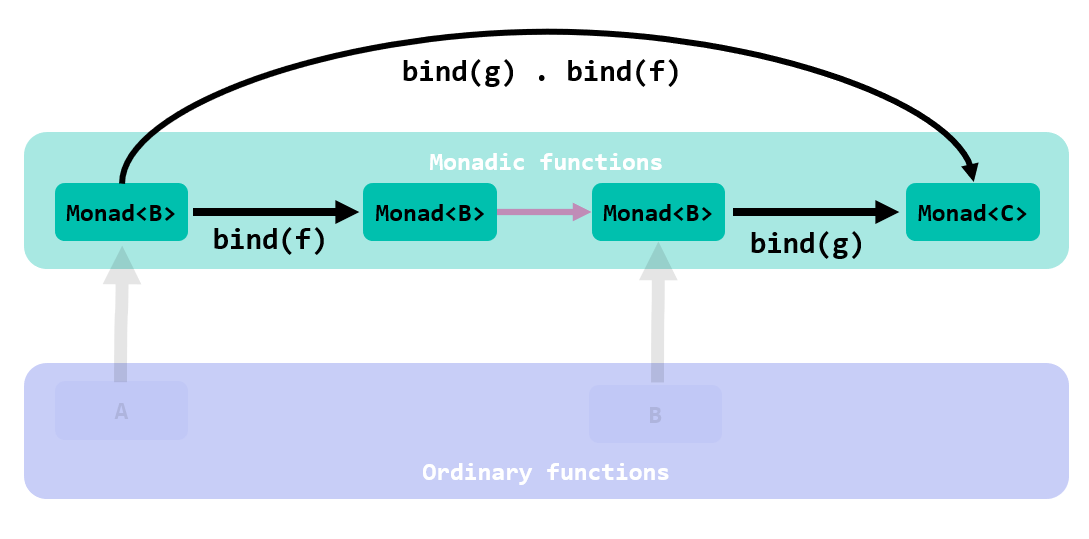
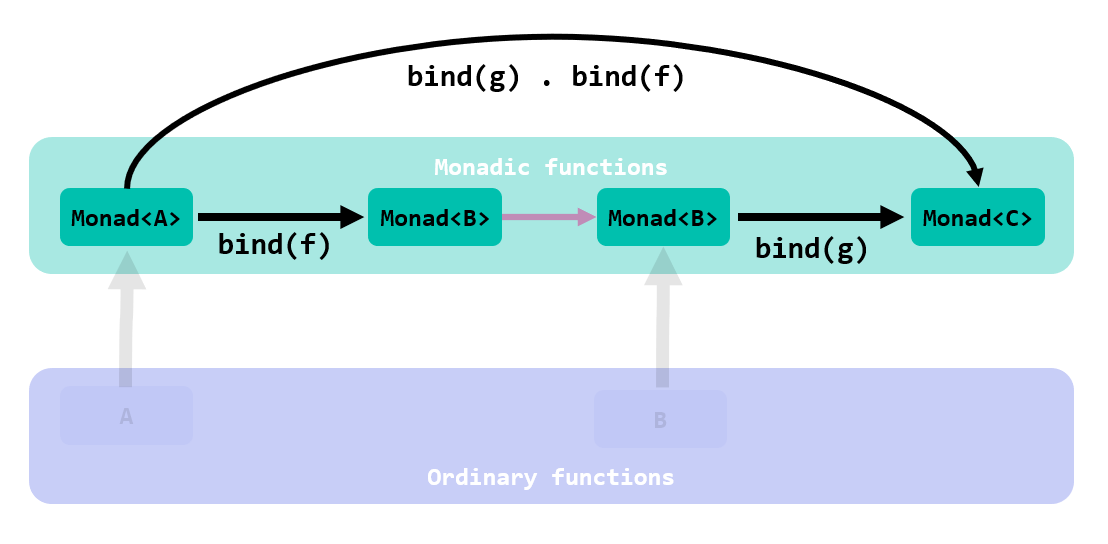
Functor as a map and as a box

diff --git a/_posts/monads-for-the-rest-of-us/2023-08-01-monads-for-the-rest-of-us-8.md b/_posts/monads-for-the-rest-of-us/2023-08-01-monads-for-the-rest-of-us-8.md
@@ -1,0 +1,318 @@
+---
+layout: post
+title: "Monads for the rest of us, in C# - Part 6"
+author: <a href="https://arialdomartini.github.io">Arialdo Martini</a>
+tags:
+- C#
+- Functional Programming
+include_in_index: false
+---
+**In which you realize that Functors are not boxes**
+You just discovered that `Bind` takes crippled functions, with a leg still clinging to the old world, and fix them elevating them so they are fully immersed in the realm of monads:
+
+![a monadic function f from A to Monad<B>](static/img/nond-for-the-rest-of-us/monadic-functions-before-bind.png)
+
+What about even more stubborn functions that have both input and output in the non-monadic world?
+
+![an ordinary function from A to B](static/img/nond-for-the-rest-of-us/functors-before-map.png)
+
+How can we fix them elevating to the monadic world?
+
+We never thought that this was a problem. We always said that pure, ordinary functions are the ideal ones to deal with, the building blocks of Functional Programming.  
+And that's true: by no means the desire to elevate them to the monadic realm implies they are problematic.
+
+The function that takes:
+
+```haskell
+f :: A -> B
+```
+
+and lifts it to:
+
+```haskell
+f :: Monad<A> -> Monad<B>
+```
+
+is called `Map`:
+
+![an ordinary function mapped to be from Monad<A> to Monad<B>](static/img/nond-for-the-rest-of-us/functors-after-map.png)
+
+`Map` is a notion related to Functors.
+
+Let me tell you what a Functor is, using a bit of Category Theory.  
+I promised that this series did not require any knowledge of Category Theory, and I won't go back on my word. I swear that it will be super easy.
+
+# Functors
+I love this image by Bartosz Milewski, from the chapter [Functors][bartosz-functors] of his book [Category Theory for Programmers]:
+
+![a functor as described in Category Theory](static/img/nond-for-the-rest-of-us/bartosz-functor.png)
+
+I slightly modified it adding a missing arrow.  
+Interpret it as follows:
+
+* There are 2 worlds, `C` and `D`. In our case, the world of ordinary functions and values, and the world of monadic functions.
+* In the world of ordinary functions there is a function `f` from the type `a` to the type `b`
+* In the world of the monadic functions, there is another function called `F f`, from the type `F a` to the type `F b`. In our previous diagrams we used the C# style, and we called them `Monad<A>` and `Monad<B>`. This does not alter the essence
+
+
+A Functor is a mapping between these 2 worlds.  
+In [Category Theory for Computing Science][barr-wells], Michael Barr and Charles Wells write:
+
+"A functor `F : C -> D` is a pair of functions [...]" 
+
+* mapping the types of `C` to the types of `D`
+* and the functions of `C` to the functions of `D`
+
+while preserving some rules, that I'm omitting for simplicity.
+
+Let me stress again: a functor is *a pair of functions*. A functor is not a thing: it's two.
+
+Of course, this is the mathematical definition. Projected to the programming language world, you need some way to implement this idea. No surprises that you can find a wide variety of implementations, from  classes implementing a `Functor` interface, like in [language-ext][language-ext]:
+
+```csharp
+[Typeclass("F*")]
+public interface Functor<FA, FB, A, B> : Typeclass
+{
+    /// <summary>
+    /// Projection from one value to another
+    /// </summary>
+    /// <param name="ma">Functor value to map from </param>
+    /// <param name="f">Projection function</param>
+    /// <returns>Mapped functor</returns>
+    [Pure]
+    FB Map(FA ma, Func<A, B> f);
+}
+```
+
+or a type classe called `Functor`, like in Haskell:
+
+```haskell
+class Functor f where
+    fmap        :: (a -> b) -> f a -> f b
+```
+
+(which captures both the mapping of functions, with `fmap` and the mapping of values, with `f`)
+
+or traits, like in [Scala Cats][scala-cats-functor]:
+
+```scala
+trait Functor[F[_]] extends Invariant[F] { self =>
+  def map[A, B](fa: F[A])(f: A => B): F[B]
+
+  override def imap[A, B](fa: F[A])(f: A => B)(g: B => A): F[B] = map(fa)(f)
+  final def fmap[A, B](fa: F[A])(f: A => B): F[B] = map(fa)(f)
+  def widen[A, B >: A](fa: F[A]): F[B] = fa.asInstanceOf[F[B]]
+  def lift[A, B](f: A => B): F[A] => F[B] = map(_)(f)
+  [...]
+}
+```
+
+The implementation is not essential, but it is interesting to notice how it often influences the way functors are described and defined. Here's a collection of examples from real random articles:
+
+* "a functor is simply something that can be mapped over"
+* "a Functor is some kind of box that can hold generic data and map a function"
+* "a functor is a type that can map itself to another version of itself using a mapping function"
+* "A functor is a container of values"
+
+The most popular way to visualize functors is using boxes, as in [Functors, Applicatives, And Monads In Pictures][functors-as-boxes]:
+
+![Functors as boxes](static/img/nond-for-the-rest-of-us/functors-as-boxes.png)
+
+This is all good. But I recommend: don't forget that these are only approximations and visualization stratagems.  
+The box metaphor holds true in many scenarios, but easily falls short in others, leading to situations that can be quite perplexing.
+
+Before implementing functors for our IO, Undetemined and Maybe cases, let's see with some code those 2 different perspectives on Functors.
+
+## Functor as a mapper
+Take a simple function `string -> int`:
+
+```csharp
+Func<string, int> length = s => s.Length;
+```
+
+
+![length function from string to int](static/img/nond-for-the-rest-of-us/functors-length.png)
+
+
+We want to map it work with `IEnumerables`, and make its signature
+
+```haskell
+IEnumerable<string> -> IEnumerable<int>
+```
+
+That is, awe want to elevate it to the world inhabitated by types modeled by the `IEnumerable` monad:
+
+![length function from string to int](static/img/nond-for-the-rest-of-us/functors-functorial-length.png)
+
+Do you see how this type-signature transformation perfectly match the goal of `Map`?
+
+Let's implement it:
+
+```csharp
+internal static class FunctorExtensions
+{
+    internal static Func<IEnumerable<A>, IEnumerable<B>> Map<A, B>(this Func<A, B> f)
+    {
+        IEnumerable<B> ApplyFunctionToAllItems(IEnumerable<A> aa)
+        {
+            foreach (var a in aa)
+            {
+                yield return f(a);
+            }
+        }
+
+        return values => ApplyFunctionToAllItems(values);
+    }        
+}
+
+string s = "foo";
+
+Func<IEnumerable<string>, IEnumerable<int>> functorialLength = length.Map();
+
+
+IEnumerable<string> values = new[] { "foo", "barbaz", "" };
+IEnumerable<int> lengths = functorialLength(values);
+
+Assert.Equal(new[] { 3, 6, 0 }, lengths);
+```
+
+# Functor as a box
+Bear with me: we are going to perform a series of refactoring moves. At the end we will get to an implementation of a Functor seen as a box. The reason why I want to get there via refactoring is to stress that the 2 points of view are alternative, 2 faces of the same coin.
+
+With Rider / ReSharper, move your cursor on `yield` and apply  "*To collection return*":
+
+```csharp
+Func<IEnumerable<A>, IEnumerable<B>> Map<A, B>(this Func<A, B> f)
+{
+    IEnumerable<B> ApplyFunctionToAllItems(IEnumerable<A> aa)
+    {
+        var items = new List<B>();
+        foreach (var a in aa)
+        {
+            items.Add(f(a));
+        }
+
+        return items;
+    }
+
+    return ApplyFunctionToAllItems;
+}
+```
+
+On `foreach`, "*Convert into LINQ-expression*":
+
+```csharp
+Func<IEnumerable<A>, IEnumerable<B>> Map<A, B>(Func<A, B> f)
+{
+    IEnumerable<B> ApplyFunctionToAllItems(IEnumerable<A> aa)
+    {
+        return aa.Select(a => f(a)).ToList();
+    }
+
+    return ApplyFunctionToAllItems;
+}
+```
+
+Feel free to remove the `ToList()` call:
+
+
+```csharp
+Func<IEnumerable<A>, IEnumerable<B>> Map<A, B>(Func<A, B> f)
+{
+    IEnumerable<B> ApplyFunctionToAllItems(IEnumerable<A> aa)
+    {
+        return aa.Select(a => f(a));
+    }
+
+    return ApplyFunctionToAllItems;
+}
+```
+
+
+On `ApplyFunctionToAllItems` apply "*To Expression Body*":
+
+```csharp
+Func<IEnumerable<A>, IEnumerable<B>> Map<A, B>(Func<A, B> f)
+{
+    IEnumerable<B> ApplyFunctionToAllItems(IEnumerable<A> aa) => aa.Select(a => f(a));
+
+    return ApplyFunctionToAllItems;
+}
+```
+
+Again on `ApplyFunctionToAllItems`, apply "*Inline method*":
+
+```csharp
+Func<IEnumerable<A>, IEnumerable<B>> Map<A, B>(Func<A, B> f)
+{
+    return aa => aa.Select(a => f(a));
+}
+```
+
+On `f` "*Replace with method group":
+
+```csharp
+Func<IEnumerable<A>, IEnumerable<B>> Map<A, B>(Func<A, B> f)
+{
+    return aa => aa.Select(f);
+}
+```
+
+On `return`, apply "*To Expression Body*":
+
+```csharp
+Func<IEnumerable<A>, IEnumerable<B>> Map<A, B>(Func<A, B> f) => aa => 
+    aa.Select(f);
+```
+
+That's interesting! We just discovered that `Map` is natively implemented by Linq's `Select`.  
+To see this clearly, in the calling site:
+
+```csharp
+var lengths = length.Map()(values);
+```
+
+inline `Map()`:
+
+```csharp
+var lengths = ((Func<IEnumerable<string>, IEnumerable<int>>)(aa => aa.Select(length)))(values);
+```
+
+Go on the `=>` and apply `To Local Function`:
+
+```csharp
+IEnumerable<int> Func(IEnumerable<string> aa) => aa.Select(length);
+
+var lengths = ((Func<IEnumerable<string>, IEnumerable<int>>)(Func))(values);
+```
+
+You can simplify the last line removing a bit of extra type annotations:
+
+```csharp
+var lengths = Func(values);
+```
+
+Inline `Func` and, voilà:
+
+```csharp
+var lengths = values.Select(length);
+```
+
+You can interpret `Select` as the function that maps `length` to the content of `values`, where values, an `IEnumerable<string>` is seen as a container of `string` values.
+
+
+
+# Resources
+* [Bartosz Milewski - Category Theory for Programmers][bartosz]
+  * [Bartosz Milewski - Functors][bartosz-functors]
+* [Michael Barr, Charles Wells - Category Theory for Computing Science][barr-wells]
+* [Functor as defined in language-ext][language-ext]
+* [Functor as defined in Scala Cats][scala-cats-functor]
+* [Functors, Applicatives, And Monads In Pictures][functors-as-boxes]
+
+[bartosz-functors]: https://bartoszmilewski.com/2015/01/20/functors/
+[bartosz]: https://bartoszmilewski.com/2014/10/28/category-theory-for-programmers-the-preface/
+[barr-wells]: https://www.math.mcgill.ca/barr/papers/ctcs.pdf
+[language-ext]: https://github.com/louthy/language-ext/blob/main/LanguageExt.Core/Type%20Classes/Functor/Functor.cs
+[scala-cats-functor]: https://github.com/typelevel/cats/blob/main/core/src/main/scala/cats/Functor.scala#L31-L228
+[functors-as-boxes]: https://www.adit.io/posts/2013-04-17-functors,_applicatives,_and_monads_in_pictures.html

diff --git a/_posts/monads-for-the-rest-of-us/2023-08-01-monads-for-the-rest-of-us-7.md b/_posts/monads-for-the-rest-of-us/2023-08-01-monads-for-the-rest-of-us-7.md
@@ -105,5 +105,15 @@ lifting their input types so that they can be *bound* and composed together:
 
 ![a monadic function f from Monad<A> to Monad<B>](static/img/nond-for-the-rest-of-us/monadic-functions-series-of-bound-functions.png)
 
-In other words. There are benefits in working in the elevated world of the monadic functions. `bind` takes those function that are still with one of their legs in the ordinary world, and elevate them.
+In other words. There are benefits in working in the monadic world. `bind` takes those function that are still with one of their legs in the ordinary world, and elevate them.
 
+Completing this with `Return` and `Run`, it's intuitive to think that the core pattern adopted in programming functionally with monads is the following:
+
+![return + bound functions + run](static/img/nond-for-the-rest-of-us/functional-programming-with-monads.png)
+
+* You start by elevating your input value to the monadic world with `Return`
+* You process it with a series of monadic functions, bound with `Bind`
+* And finally, at the edge of your application, you descend down to the world of ordinary functions and values, with `Run`
+
+
+You are ready to understand Functors.
